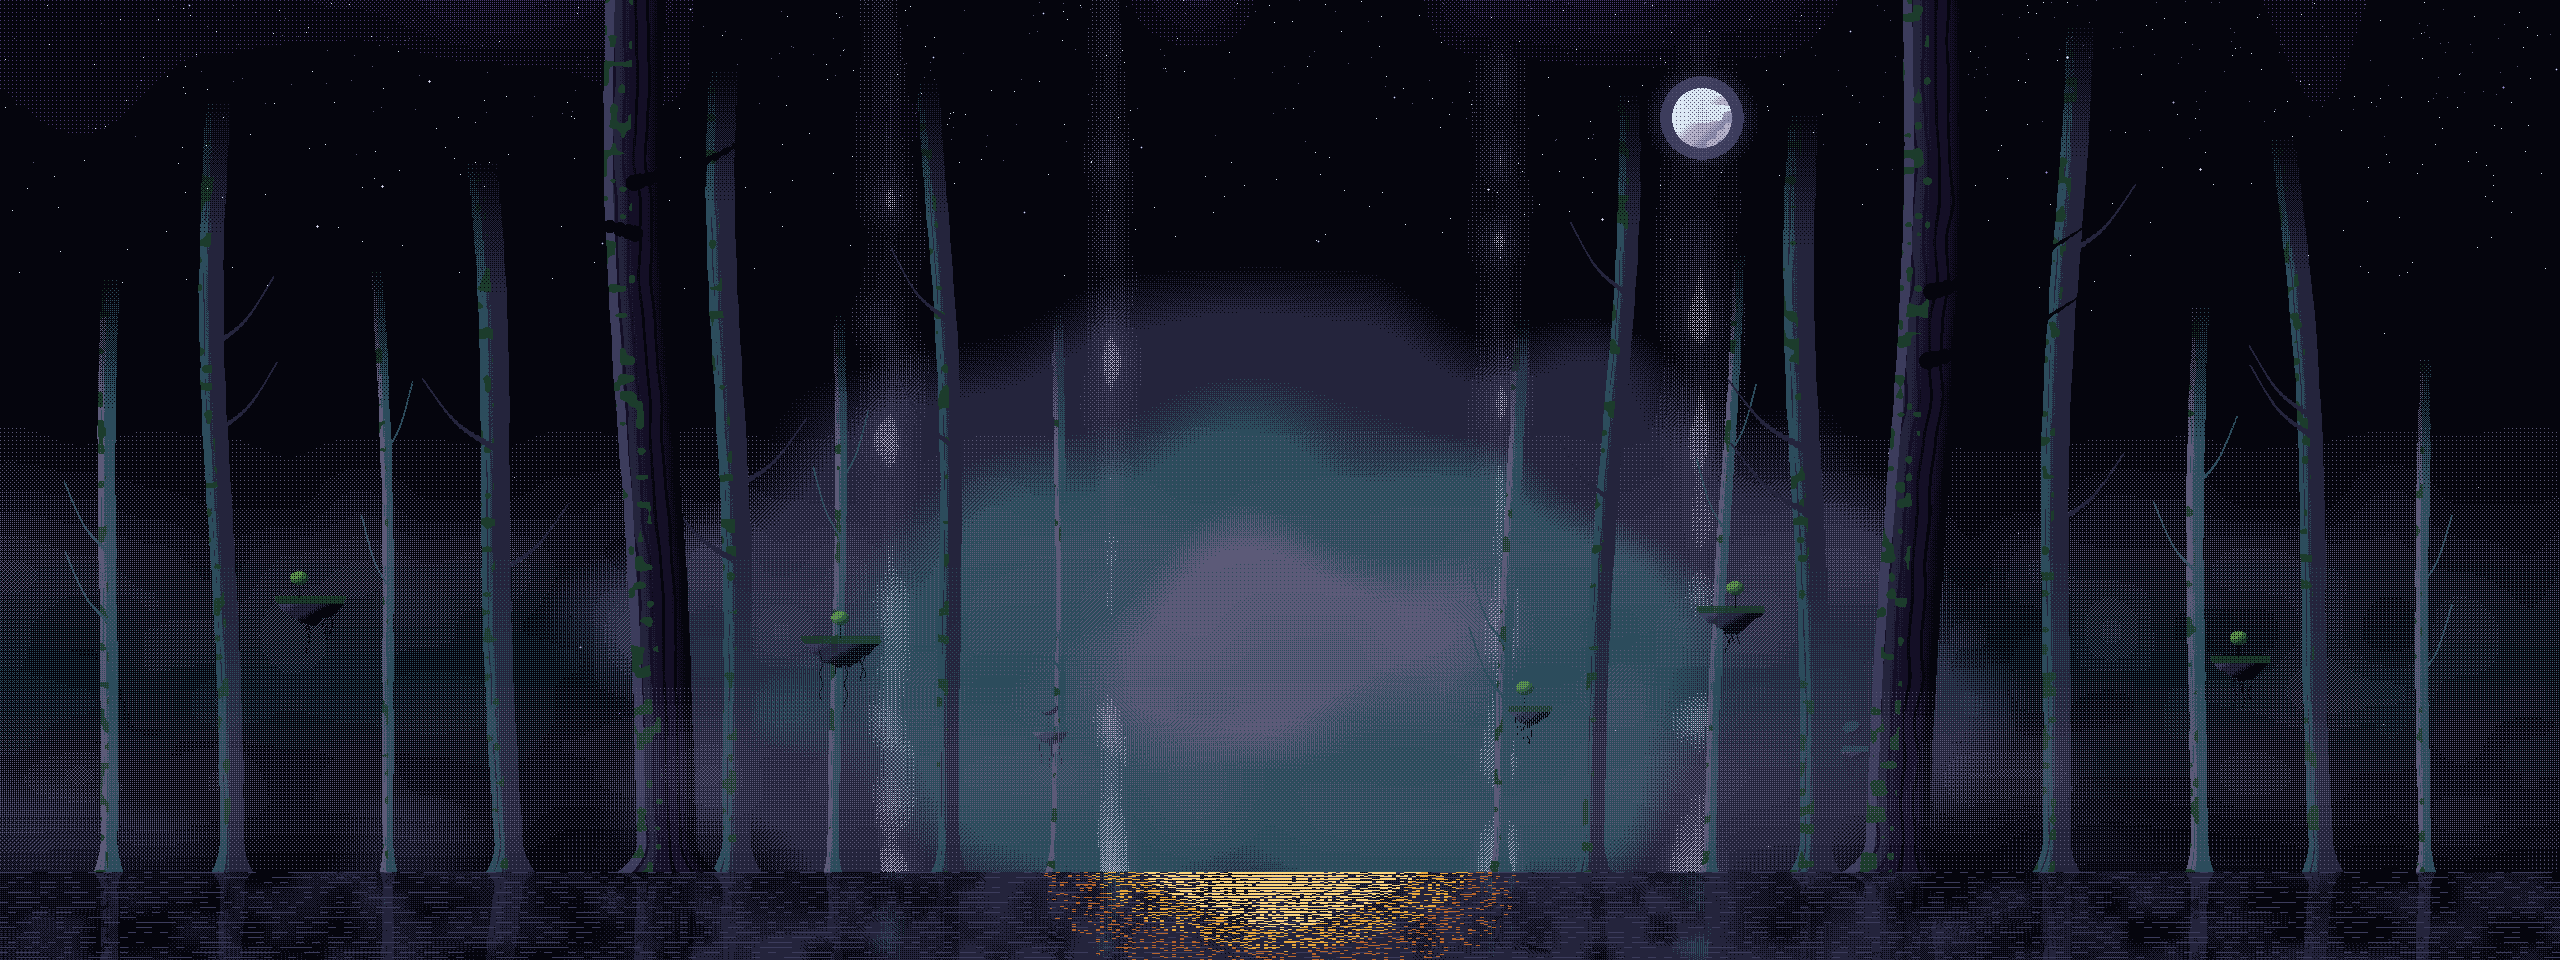
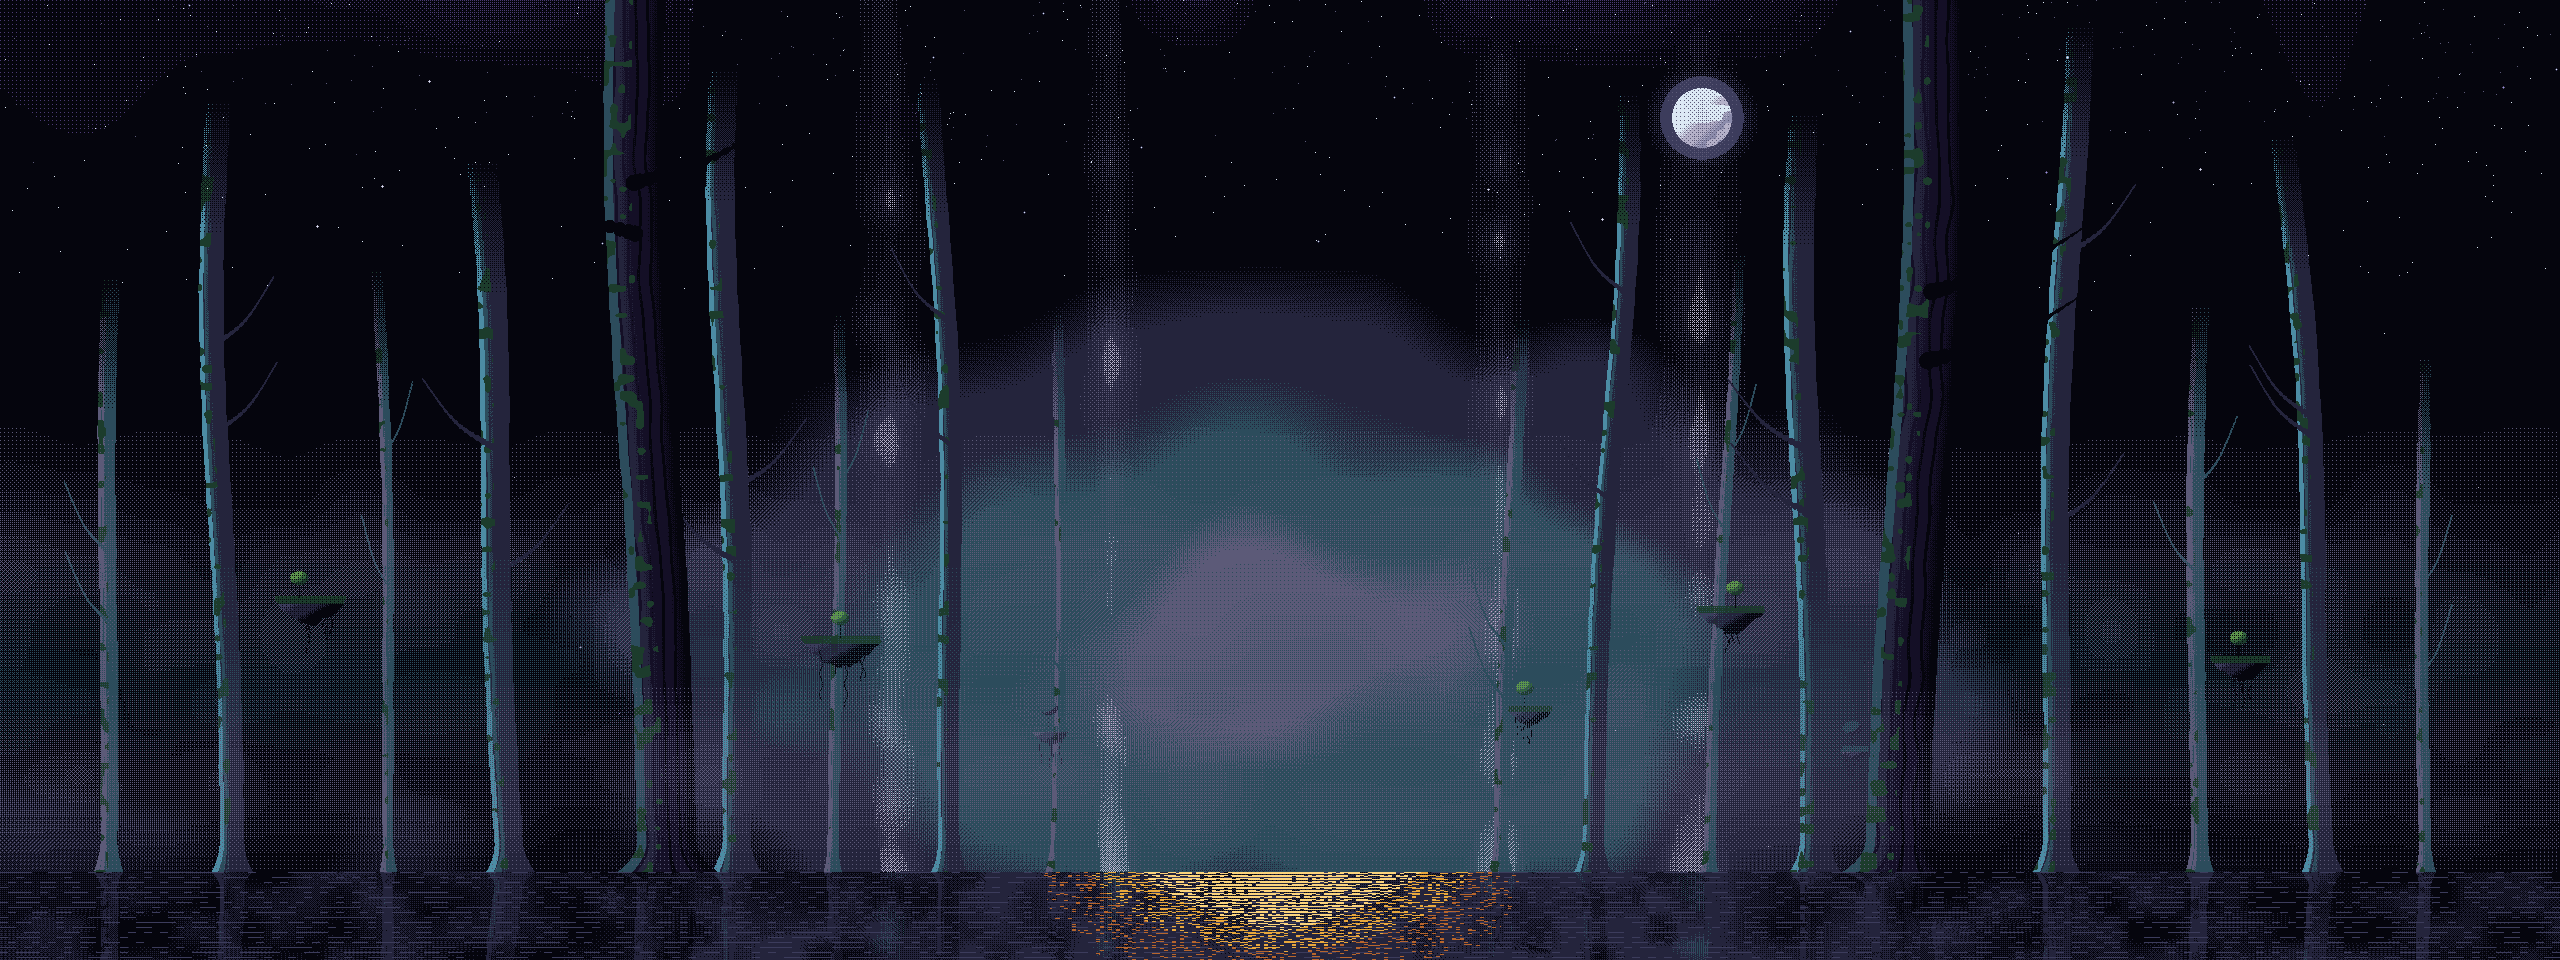
Grove backdrop: background trunks lit teal like the map's dead trees
The middle trunks' lit edge is Dew, the near edge trunks' Pool (were Pool / Dusk), matching the re-themed map bark (Environment Assets 5d222a19). Nothing else changed.

diff --git a/Project_T/tools/meta_art/grove_gen.html b/Project_T/tools/meta_art/grove_gen.html
@@ -910,12 +910,12 @@ function grovesky(pad = 0) {
   for (const x of [180, 430, 860, 1080]) trunk(x + (hash(x, 1, 84) - .5) * 40, 10 + hash(x, 2, 84) * 8, (hash(x, 3, 84) - .5) * .08, 10, x, [HW.Pool, HW.Pool, HW.Slate], HW.Slate, 360 + hash(x, 4, 84) * 160);
   if (pad) for (const x of [-520, -260, 1540, 1790]) trunk(x + (hash(x + 999, 1, 84) - .5) * 40, 10 + hash(x + 999, 2, 84) * 8, (hash(x + 999, 3, 84) - .5) * .08, 10, x, [HW.Pool, HW.Pool, HW.Slate], HW.Slate, 360 + hash(x + 999, 4, 84) * 160);
   mistBand(380, 900, .34, HW.Slate);
-  for (const x of [90, 330, 960, 1170]) trunk(x + (hash(x, 1, 85) - .5) * 50, 20 + hash(x, 2, 85) * 12, (hash(x, 3, 85) - .5) * .1, 14, x + 20, [HW.Night, HW.Night, HW.Pool], HW.Pool, 560 + hash(x, 4, 85) * 200);
-  if (pad) for (const x of [-420, -140, 1420, 1700]) trunk(x + (hash(x + 999, 1, 85) - .5) * 50, 20 + hash(x + 999, 2, 85) * 12, (hash(x + 999, 3, 85) - .5) * .1, 14, x + 20, [HW.Night, HW.Night, HW.Pool], HW.Pool, 560 + hash(x + 999, 4, 85) * 200);
+  for (const x of [90, 330, 960, 1170]) trunk(x + (hash(x, 1, 85) - .5) * 50, 20 + hash(x, 2, 85) * 12, (hash(x, 3, 85) - .5) * .1, 14, x + 20, [HW.Night, HW.Night, HW.Pool], HW.Dew, 560 + hash(x, 4, 85) * 200);
+  if (pad) for (const x of [-420, -140, 1420, 1700]) trunk(x + (hash(x + 999, 1, 85) - .5) * 50, 20 + hash(x + 999, 2, 85) * 12, (hash(x + 999, 3, 85) - .5) * .1, 14, x + 20, [HW.Night, HW.Night, HW.Pool], HW.Dew, 560 + hash(x + 999, 4, 85) * 200);
   mistBand(520, 900, .28, HW.Pool);
   island(200, 640, 40, .35, 1); island(1090, 610, 34, .4, 2); island(410, 730, 20, .55, 3); island(890, 710, 22, .5, 4); island(1215, 750, 14, .6, 5);
   if (pad) { island(-330, 600, 36, .4, 6); island(1600, 660, 30, .45, 7); }
-  for (const [x, w, lean] of [[28, 58, .04], [1256, 62, -.05]]) trunk(x, w, lean, 10, x, [HW.Void, HW.Dread, HW.Night], HW.Dusk, 900);
+  for (const [x, w, lean] of [[28, 58, .04], [1256, 62, -.05]]) trunk(x, w, lean, 10, x, [HW.Void, HW.Dread, HW.Night], HW.Pool, 900);
   mistBand(660, 900, .3, HW.Slate);
   // Still dark water at the bottom: ripple lines, the trunks' dim reflections, and the Heartwood's
   // warm light reflected in a broken column below it.

diff --git a/Project_T/tools/meta_art/grove_tree.js b/Project_T/tools/meta_art/grove_tree.js
@@ -449,12 +449,12 @@ function grovesky(pad = 0) {
   for (const x of [180, 430, 860, 1080]) trunk(x + (hash(x, 1, 84) - .5) * 40, 10 + hash(x, 2, 84) * 8, (hash(x, 3, 84) - .5) * .08, 10, x, [HW.Pool, HW.Pool, HW.Slate], HW.Slate, 360 + hash(x, 4, 84) * 160);
   if (pad) for (const x of [-520, -260, 1540, 1790]) trunk(x + (hash(x + 999, 1, 84) - .5) * 40, 10 + hash(x + 999, 2, 84) * 8, (hash(x + 999, 3, 84) - .5) * .08, 10, x, [HW.Pool, HW.Pool, HW.Slate], HW.Slate, 360 + hash(x + 999, 4, 84) * 160);
   mistBand(380, 900, .34, HW.Slate);
-  for (const x of [90, 330, 960, 1170]) trunk(x + (hash(x, 1, 85) - .5) * 50, 20 + hash(x, 2, 85) * 12, (hash(x, 3, 85) - .5) * .1, 14, x + 20, [HW.Night, HW.Night, HW.Pool], HW.Pool, 560 + hash(x, 4, 85) * 200);
-  if (pad) for (const x of [-420, -140, 1420, 1700]) trunk(x + (hash(x + 999, 1, 85) - .5) * 50, 20 + hash(x + 999, 2, 85) * 12, (hash(x + 999, 3, 85) - .5) * .1, 14, x + 20, [HW.Night, HW.Night, HW.Pool], HW.Pool, 560 + hash(x + 999, 4, 85) * 200);
+  for (const x of [90, 330, 960, 1170]) trunk(x + (hash(x, 1, 85) - .5) * 50, 20 + hash(x, 2, 85) * 12, (hash(x, 3, 85) - .5) * .1, 14, x + 20, [HW.Night, HW.Night, HW.Pool], HW.Dew, 560 + hash(x, 4, 85) * 200);
+  if (pad) for (const x of [-420, -140, 1420, 1700]) trunk(x + (hash(x + 999, 1, 85) - .5) * 50, 20 + hash(x + 999, 2, 85) * 12, (hash(x + 999, 3, 85) - .5) * .1, 14, x + 20, [HW.Night, HW.Night, HW.Pool], HW.Dew, 560 + hash(x + 999, 4, 85) * 200);
   mistBand(520, 900, .28, HW.Pool);
   island(200, 640, 40, .35, 1); island(1090, 610, 34, .4, 2); island(410, 730, 20, .55, 3); island(890, 710, 22, .5, 4); island(1215, 750, 14, .6, 5);
   if (pad) { island(-330, 600, 36, .4, 6); island(1600, 660, 30, .45, 7); }
-  for (const [x, w, lean] of [[28, 58, .04], [1256, 62, -.05]]) trunk(x, w, lean, 10, x, [HW.Void, HW.Dread, HW.Night], HW.Dusk, 900);
+  for (const [x, w, lean] of [[28, 58, .04], [1256, 62, -.05]]) trunk(x, w, lean, 10, x, [HW.Void, HW.Dread, HW.Night], HW.Pool, 900);
   mistBand(660, 900, .3, HW.Slate);
   // Still dark water at the bottom: ripple lines, the trunks' dim reflections, and the Heartwood's
   // warm light reflected in a broken column below it.
